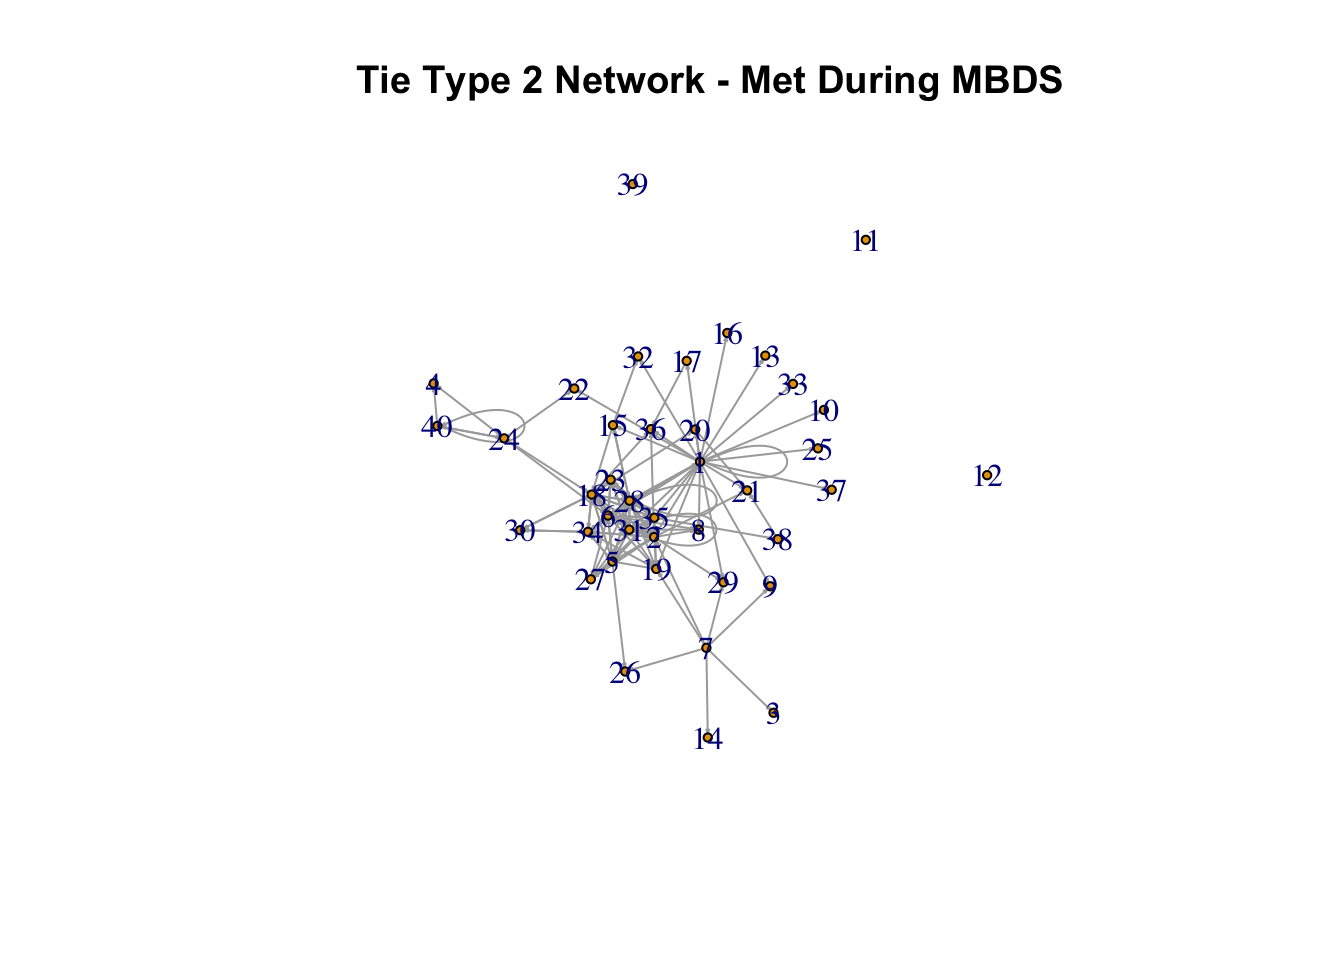
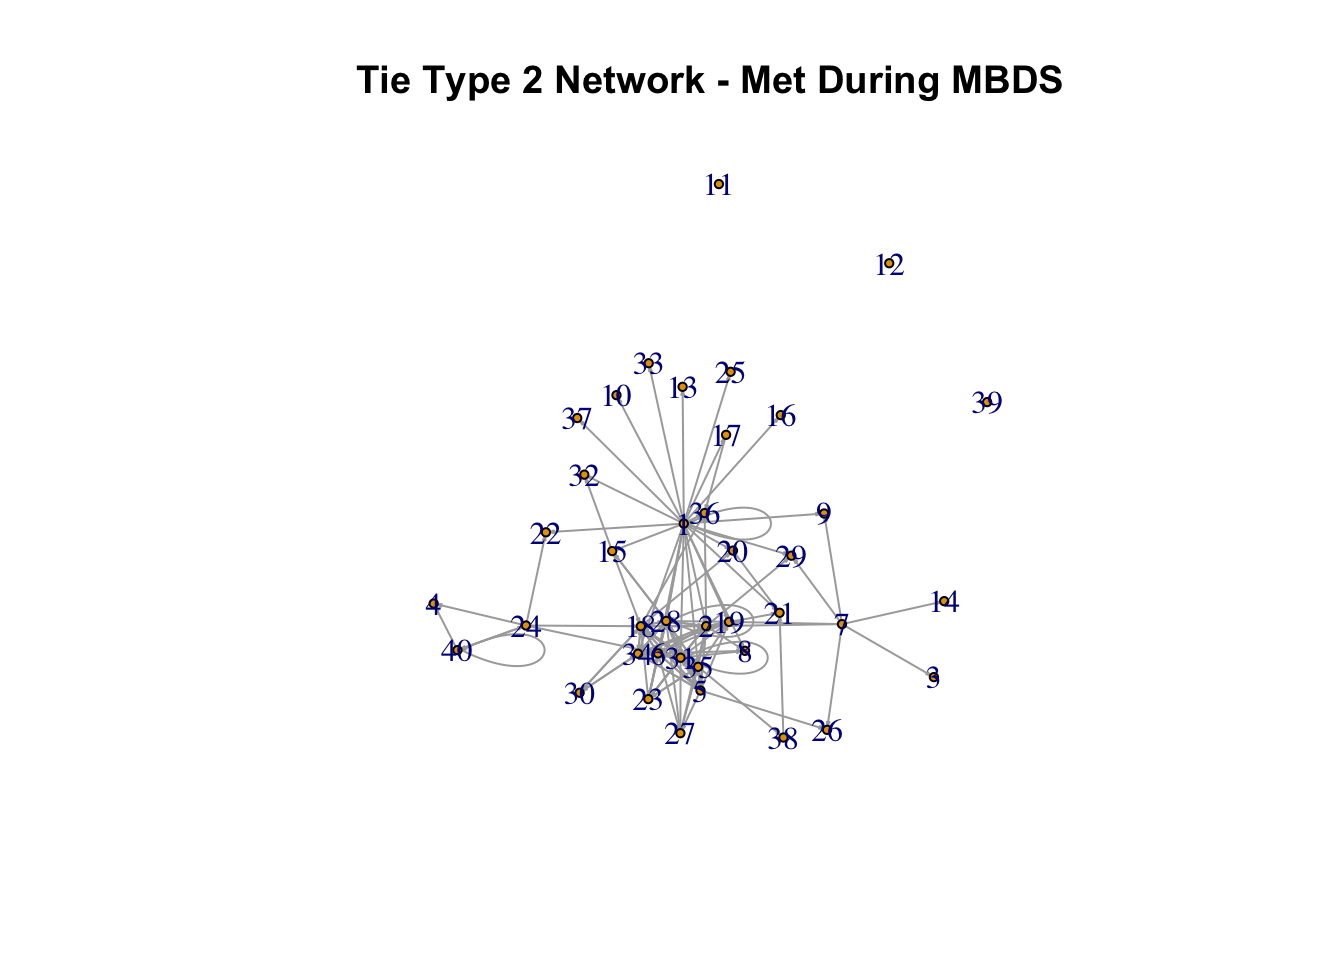
adding hw 10

diff --git a/index.html b/index.html
@@ -305,7 +305,19 @@ $(document).ready(function () {
 </div>
 
 
-<p>Welcome to my website!</p>
+<p>Homework 10</p>
+<p><strong>Group Members:</strong> Arvind Bala, Ben Brikman, Jimena Velazquez, Minglu Xu, Eva Zhang</p>
+<div id="question-1" class="section level1">
+<h1>Question 1</h1>
+<p>We prepared the data for the network analysis by creating a separate edge and node list.</p>
+</div>
+<div id="question-2" class="section level1">
+<h1>Question 2</h1>
+<p><em>Calculate measures of centrality and similarity in networks depending on tie-type? Which tie type generates the most similar network in terms of introversion? Which tie type is the most dissimilar?</em></p>
+<p><strong>Network Visualization by Tie Type</strong></p>
+<p>We start our analysis by visualizing the overall network and the 5 networks filtered by the 5 tie types. It’s interesting to observe that networks based on tie type 3, 4, 5 have relatively more isolated nodes. These ties describes friendships and relations of asking/being asked for help. Perhaps remote learning has impacted people’s ability to make friends in the program.</p>
+<p><img src="index_files/figure-html/unnamed-chunk-2-1.png" width="672" /><img src="index_files/figure-html/unnamed-chunk-2-2.png" width="672" /><img src="index_files/figure-html/unnamed-chunk-2-3.png" width="672" /><img src="index_files/figure-html/unnamed-chunk-2-4.png" width="672" /><img src="index_files/figure-html/unnamed-chunk-2-5.png" width="672" /><img src="index_files/figure-html/unnamed-chunk-2-6.png" width="672" /></p>
+</div>
 
 
 
